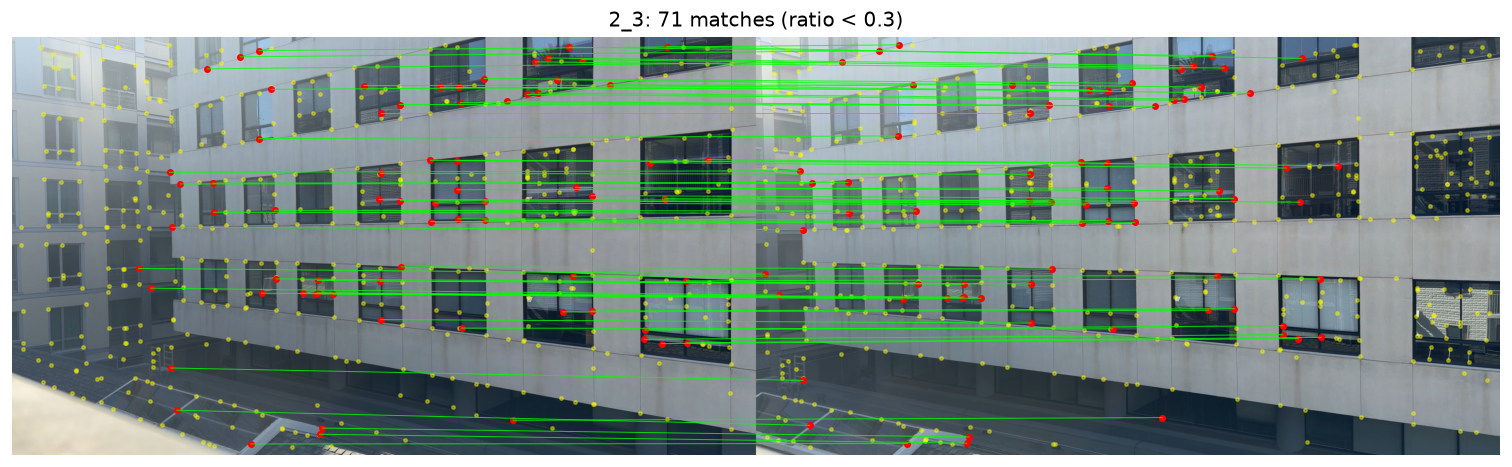
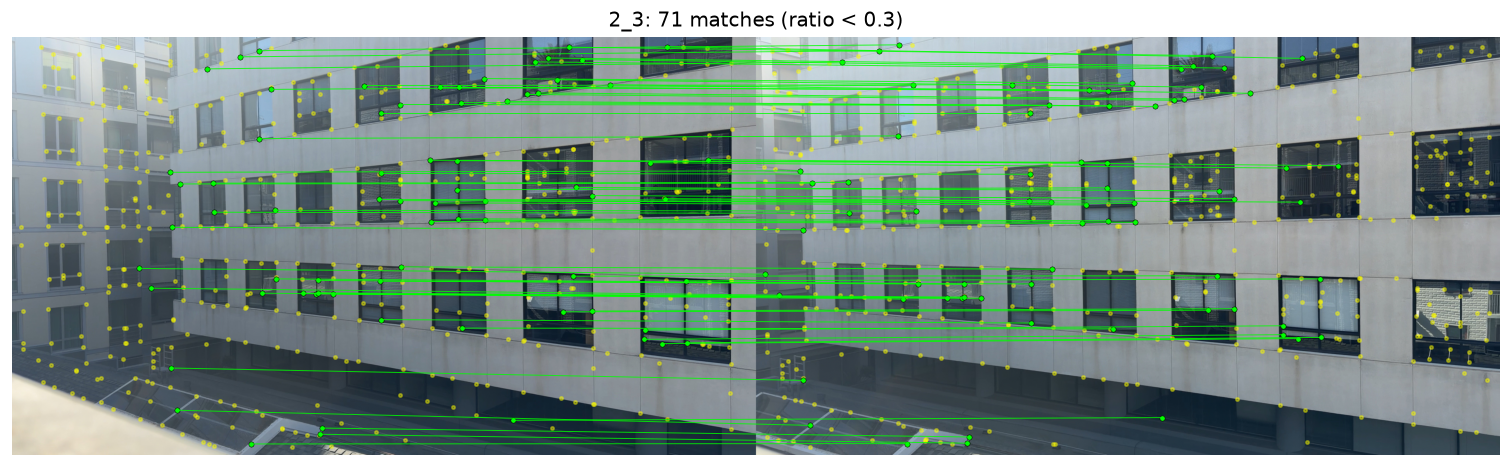
b.4 ransac

diff --git a/p4/main.py b/p4/main.py
@@ -9,7 +9,7 @@ import matplotlib.pyplot as plt
 from homography import (computeH, build_system, show_correspondences, warpImageNearestNeighbor,
                         warpImageBilinear, _output_bbox)
 import mosaic
-from automatic_features import get_harris_corners, anms, get_descriptors, lowes_threshold
+from automatic_features import get_harris_corners, anms, get_descriptors, lowes_threshold, ransac
 
 ROOT = Path(__file__).resolve().parent
 DATA, CORR, OUT = ROOT / "data", ROOT / "corr", ROOT / "out"
@@ -228,6 +228,24 @@ def run_descriptors(names, scale=0.5, n_ip=500, c=0.9, pre=5000, show=8, sigma=2
               f"mean |{np.abs(descs.mean(1)).max():.1e}|, std {descs.std(1).min():.3f}-{descs.std(1).max():.3f}")
 
 
+def draw_matches(im1, im2, pts1, pts2, corners1, corners2, title, path, inliers=None):
+    H = max(im1.shape[0], im2.shape[0]); W1 = im1.shape[1]
+    canvas = np.ones((H, W1 + im2.shape[1], 3))
+    canvas[:im1.shape[0], :W1] = im1; canvas[:im2.shape[0], W1:] = im2
+    fig, ax = plt.subplots(figsize=(16, 8))
+    ax.imshow(canvas)
+    ax.scatter(corners1[1], corners1[0], s=4, c="yellow", alpha=0.4)
+    ax.scatter(corners2[1] + W1, corners2[0], s=4, c="yellow", alpha=0.4)
+    ok = np.ones(len(pts1), bool) if inliers is None else inliers
+    for (x1, y1), (x2, y2), good in zip(pts1, pts2, ok):
+        ax.plot([x1, x2 + W1], [y1, y2], "-", c="lime" if good else "red", lw=0.6 if good else 1.0, alpha=0.8)
+    for p, dx in ((pts1, 0), (pts2, W1)):
+        ax.scatter(p[ok, 0] + dx, p[ok, 1], s=10, c="lime", edgecolors="black", linewidths=0.3)
+        ax.scatter(p[~ok, 0] + dx, p[~ok, 1], s=14, c="red", marker="x")
+    ax.set_axis_off(); ax.set_title(title)
+    fig.savefig(path, dpi=120, bbox_inches="tight"); plt.close(fig)
+
+
 def run_lowes_threshold(names, scale=0.5, n_ip=500, c=0.9, pre=5000, sigma=2.0, threshold=0.3):
     out = OUT / "b3"; out.mkdir(parents=True, exist_ok=True)
     ims = [mosaic.load_scaled(DATA / n, scale) for n in names]
@@ -238,18 +256,37 @@ def run_lowes_threshold(names, scale=0.5, n_ip=500, c=0.9, pre=5000, sigma=2.0, 
         pts1 = pa[::-1, m[:, 0]].T; pts2 = pb[::-1, m[:, 1]].T
         np.savez(out / f"{tag}_matches.npz", im1_pts=pts1, im2_pts=pts2, matches=m)
         im1, im2 = ims[names.index(na)], ims[names.index(nb)]
-        H = max(im1.shape[0], im2.shape[0]); W1 = im1.shape[1]
-        canvas = np.ones((H, W1 + im2.shape[1], 3))
-        canvas[:im1.shape[0], :W1] = im1; canvas[:im2.shape[0], W1:] = im2
-        fig, ax = plt.subplots(figsize=(16, 8))
-        ax.imshow(canvas)
-        ax.scatter(pa[1], pa[0], s=4, c="yellow", alpha=0.4); ax.scatter(pb[1] + W1, pb[0], s=4, c="yellow", alpha=0.4)
-        for (x1, y1), (x2, y2) in zip(pts1, pts2):
-            ax.plot([x1, x2 + W1], [y1, y2], "-", c="lime", lw=0.6, alpha=0.8)
-        ax.scatter(pts1[:, 0], pts1[:, 1], s=10, c="red"); ax.scatter(pts2[:, 0] + W1, pts2[:, 1], s=10, c="red")
-        ax.set_axis_off(); ax.set_title(f"{tag}: {len(m)} matches (ratio < {threshold})")
-        fig.savefig(out / f"{tag}_matches.png", dpi=120, bbox_inches="tight"); plt.close(fig)
+        draw_matches(im1, im2, pts1, pts2, pa, pb, f"{tag}: {len(m)} matches (ratio < {threshold})",
+                     out / f"{tag}_matches.png")
         print(f"{tag}: {len(m)} matches of {len(da)} x {len(db)} features at threshold {threshold}")
+
+
+def run_ransac_compute_hom(names, scale=0.5, n_ip=500, c=0.9, pre=5000, sigma=2.0, threshold=0.3,
+                           iters=500, r=3.0):
+    out = OUT / "b4"; out.mkdir(parents=True, exist_ok=True)
+    ims = [mosaic.load_scaled(DATA / n, scale) for n in names]
+    feats = [extract_features(im.mean(-1), n_ip, c, pre, sigma) for im in ims]
+    for k, (na, nb) in enumerate(zip(names, names[1:])):
+        tag = f"{Path(na).stem}_{Path(nb).stem}"
+        (pa, da), (pb, db) = feats[k], feats[k + 1]
+        m = lowes_threshold(da, db, threshold)
+        pts1, pts2 = pa[::-1].T.astype(float), pb[::-1].T.astype(float)
+        H, inliers = ransac(pts1, pts2, m, iters, r)
+        mp1, mp2 = pts1[m[:, 0]], pts2[m[:, 1]]
+        np.savez(out / f"{tag}_ransac.npz", H=H, im1_pts=mp1[inliers], im2_pts=mp2[inliers])
+        np.savetxt(out / f"{tag}_H.txt", H, fmt="%12.6f")
+        draw_matches(ims[k], ims[k + 1], mp1, mp2, pa, pb,
+                     f"{tag}: {inliers.sum()} inliers / {len(m)} matches ({iters} iters, r = {r} px)",
+                     out / f"{tag}_ransac.png", inliers)
+        line = f"{tag}: {inliers.sum()}/{len(m)} inliers"
+        manual = CORR / f"{tag}.npz"
+        if manual.exists():
+            d = np.load(manual)
+            q1, q2 = d["im1_pts"] * scale, d["im2_pts"] * scale
+            proj = (H @ np.column_stack((q1, np.ones(len(q1)))).T).T
+            err = np.linalg.norm(proj[:, :2] / proj[:, 2:] - q2, axis=1)
+            line += f", manual clicks reproject with mean {err.mean():.2f} px (max {err.max():.2f})"
+        print(line)
 
 
 def main():
@@ -272,6 +309,11 @@ def main():
     p.add_argument("--n", type=int, default=500); p.add_argument("--c", type=float, default=0.9)
     p.add_argument("--pre", type=int, default=5000); p.add_argument("--sigma", type=float, default=2.0)
     p.add_argument("--threshold", type=float, default=0.3)
+    p = sub.add_parser("ransac"); p.add_argument("images", nargs="+"); p.add_argument("--scale", type=float, default=0.5)
+    p.add_argument("--n", type=int, default=500); p.add_argument("--c", type=float, default=0.9)
+    p.add_argument("--pre", type=int, default=5000); p.add_argument("--sigma", type=float, default=2.0)
+    p.add_argument("--threshold", type=float, default=0.3); p.add_argument("--iters", type=int, default=500)
+    p.add_argument("--r", type=float, default=3.0, help="inlier reprojection radius in pixels")
     a = ap.parse_args()
     if a.cmd == "corr":
         run_corr()
@@ -283,6 +325,8 @@ def main():
         run_descriptors(a.images, a.scale, a.n, a.c, a.pre, a.show, a.sigma)
     elif a.cmd == "match":
         run_lowes_threshold(a.images, a.scale, a.n, a.c, a.pre, a.sigma, a.threshold)
+    elif a.cmd == "ransac":
+        run_ransac_compute_hom(a.images, a.scale, a.n, a.c, a.pre, a.sigma, a.threshold, a.iters, a.r)
     else:
         names = SETS[a.set] if a.set else a.names
         run_mosaic(names, a.tag or (f"set{a.set}" if a.set else "custom"), a.scale, a.limit, a.sigma, a.sigma_high)

diff --git a/p4/automatic_features.py b/p4/automatic_features.py
@@ -6,6 +6,7 @@ from skimage.feature import corner_harris, peak_local_max
 ROOT = Path(__file__).resolve().parent
 sys.path.insert(0, str(ROOT.parent / "p2"))
 from filters import gaussian_blur
+import homography as hom
 
 
 
@@ -116,6 +117,46 @@ def lowes_threshold(descs1, descs2, threshold=0.3):
     i_1 = np.where(keep)[0]
     i_2 = nn1_i[keep]
     return np.column_stack((i_1, i_2))
+
+def ransac(pts1, pts2, corr, n=500, r=5.0):
+    num_corrs = corr.shape[0]
+    rng = np.random.default_rng()
+
+    all_pts1 = pts1[corr[:, 0]]  
+    all_pts2 = pts2[corr[:, 1]]  
+
+    pts1_hom = np.column_stack((all_pts1, np.ones(num_corrs)))
+
+    max_inliers = 0
+    best_inliers = None
+    best_H = None
+    for i in range(n):
+        idx = rng.choice(num_corrs, size=4, replace=False)
+        im1_pts = pts1[corr[idx, 0]]
+        im2_pts = pts2[corr[idx, 1]]
+        H = hom.computeH(im1_pts, im2_pts)
+
+        proj_hom = (H @ pts1_hom.T).T
+        proj_pts = proj_hom[:, :2] / proj_hom[:, 2:3]
+
+        sq_dists = np.diag(dist2(proj_pts, all_pts2))
+        inliers = sq_dists < (r ** 2)
+        num_inliers = np.sum(inliers)
+
+        if num_inliers > max_inliers:
+            max_inliers = num_inliers
+            best_inliers = inliers
+            best_H = H
+
+    # Run least squares on inliers for more robustness like mentioned in lecture
+    if best_inliers is not None and max_inliers >= 4:
+        best_H = hom.computeH(all_pts1[best_inliers], all_pts2[best_inliers])
+
+    return best_H, best_inliers
+
+
+
+    
 
 
 
